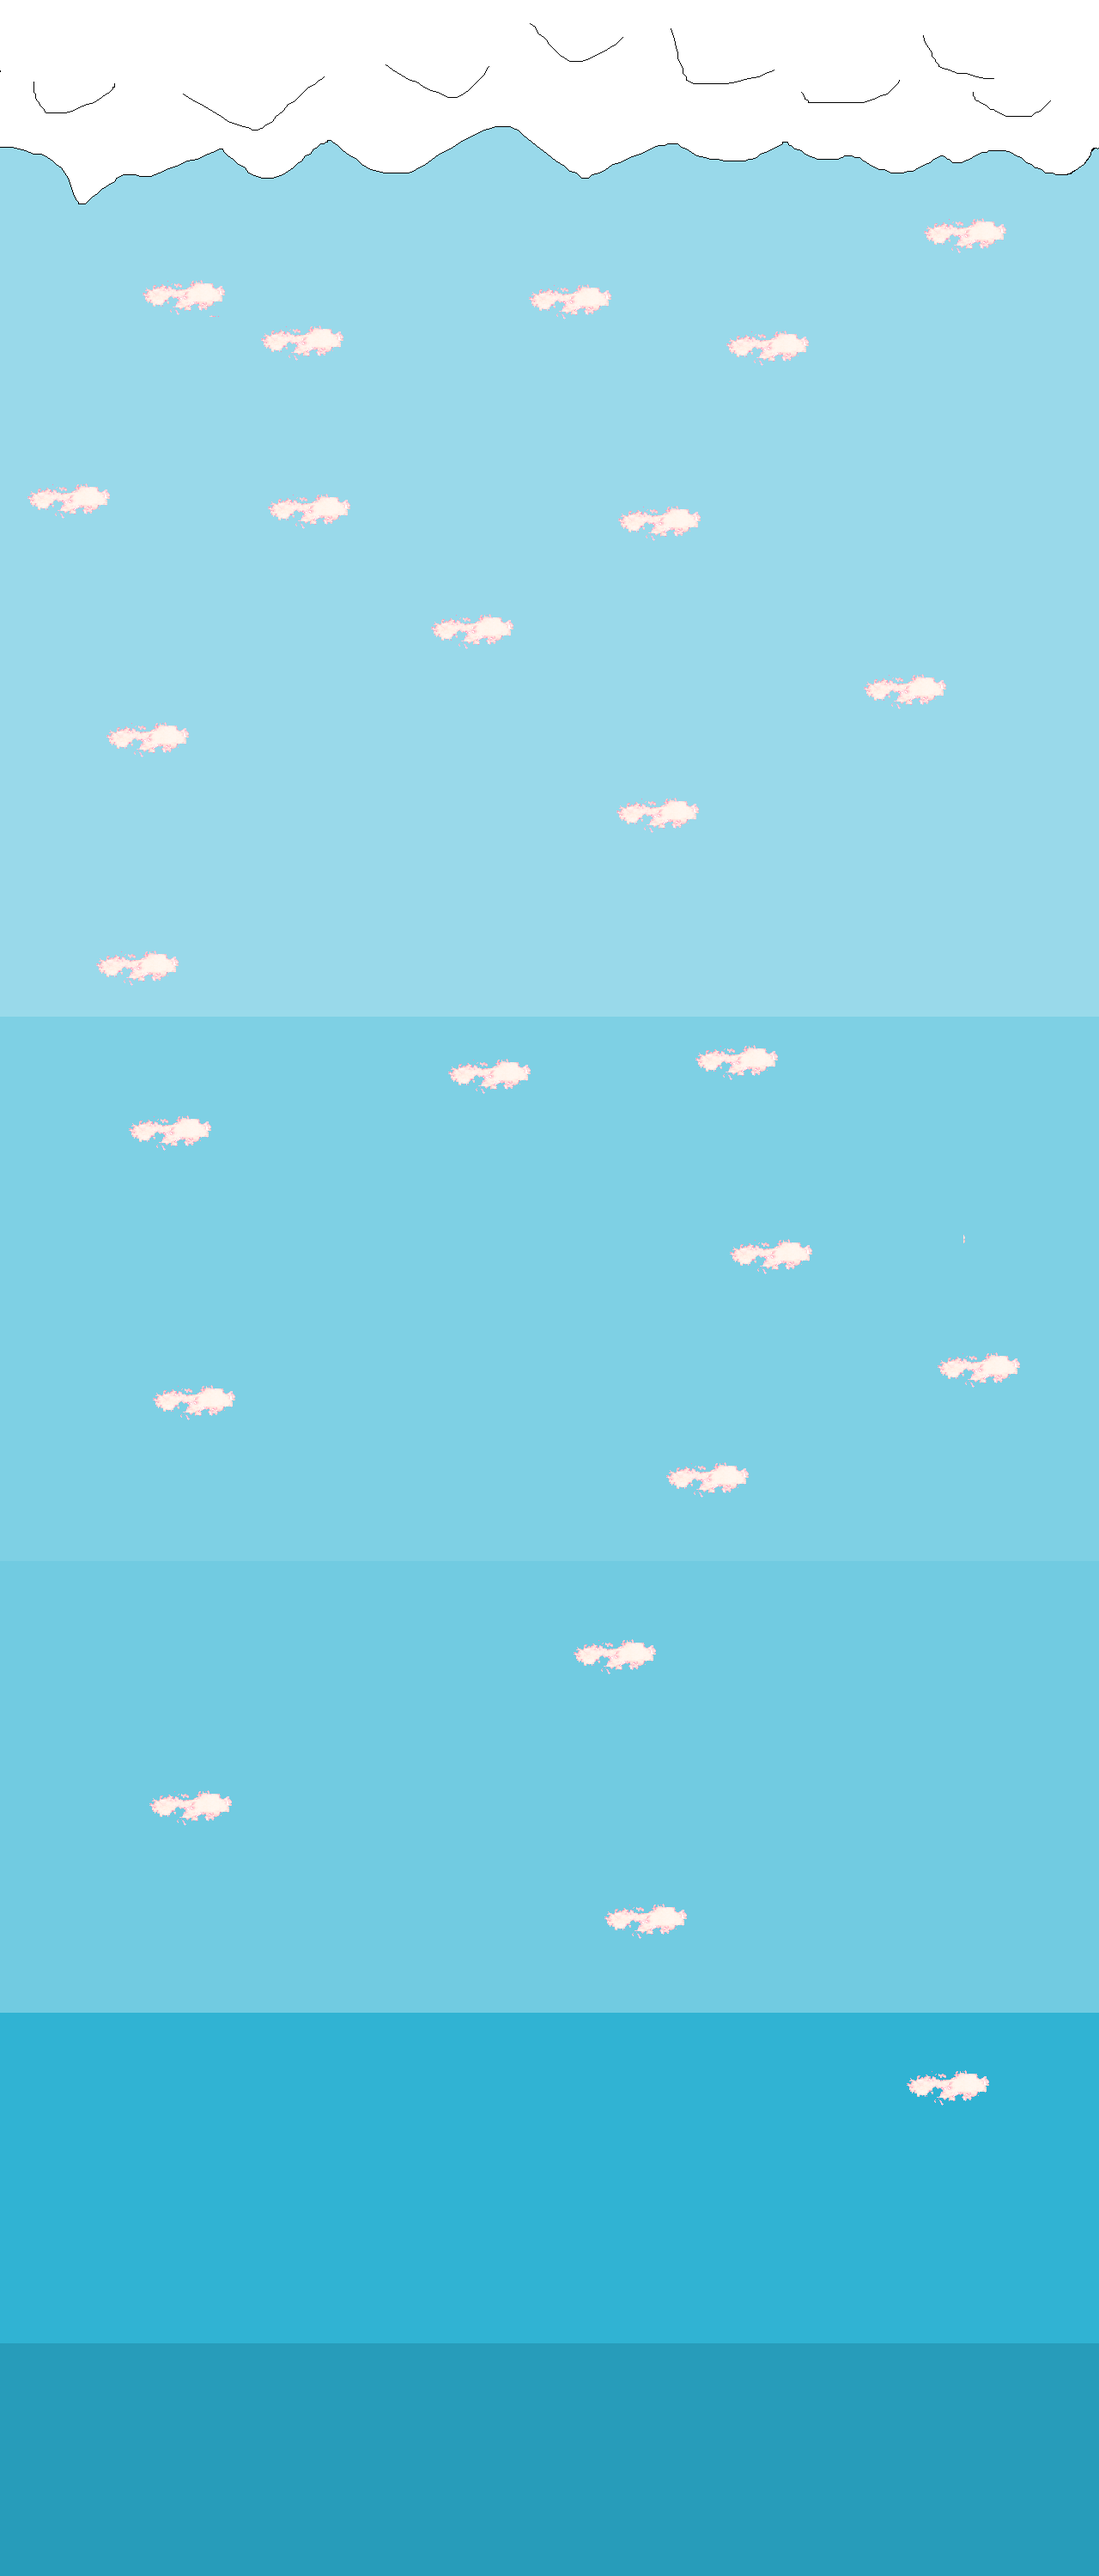
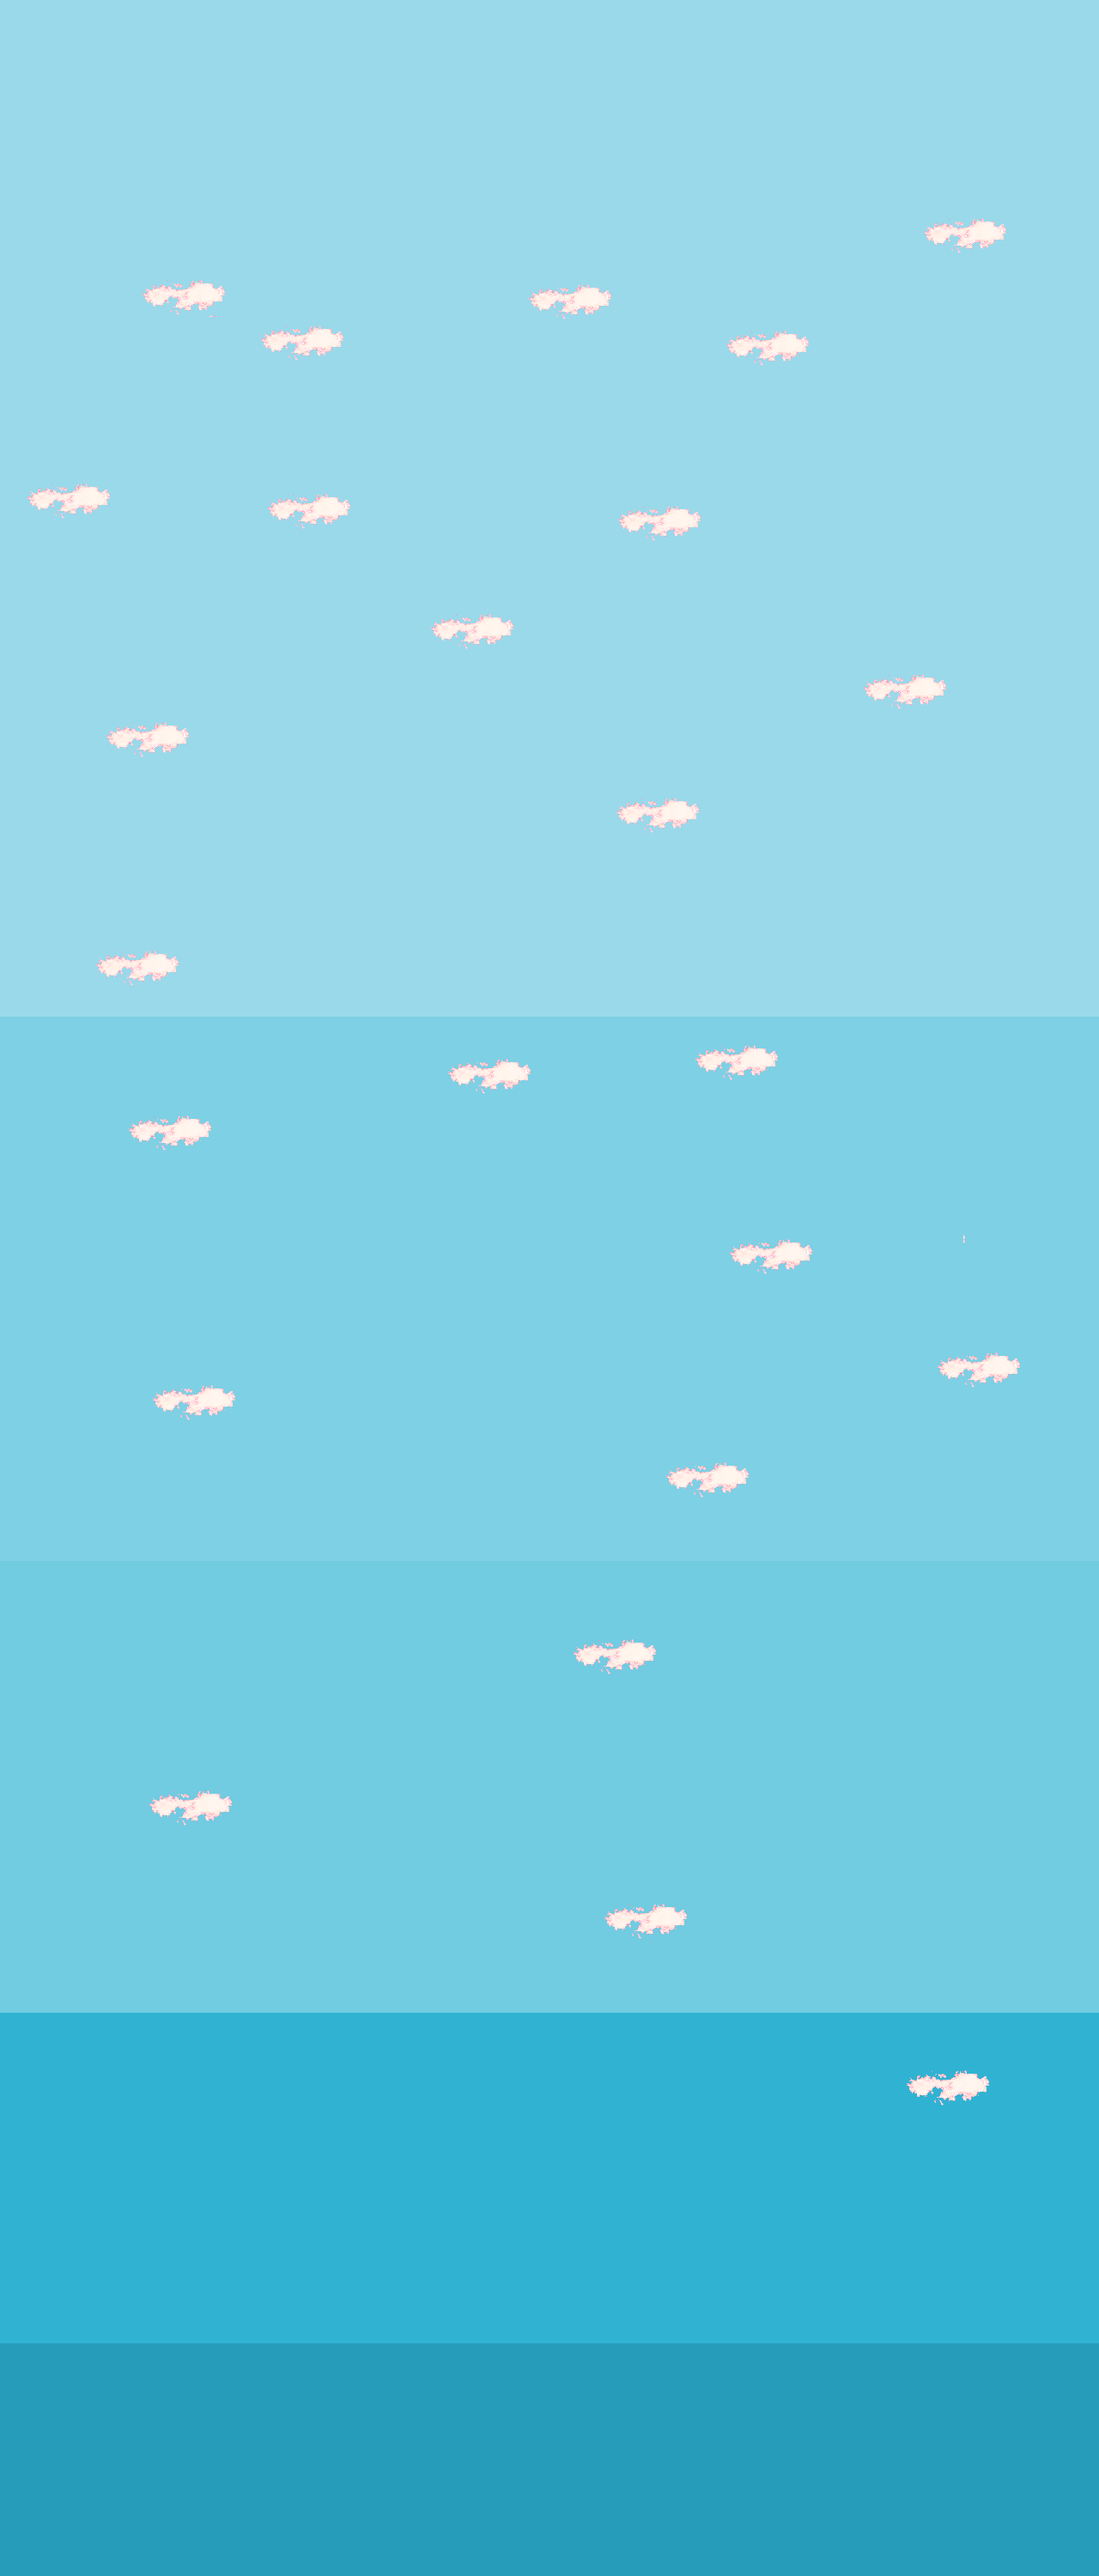
dodanie lustra wody

Changed region(s): [[0.0, 0.0, 1.0, 0.093]]

diff --git a/Game2D/Character.cpp b/Game2D/Character.cpp
@@ -12,14 +12,14 @@
 std::vector<bool> Inputs::slope;
 
 Character::Character(const Vecf2 position, const std::string &file, std::shared_ptr<Renderer> & ren) :
-	Object(0, 2 * BLOCK_SIZE, 2 * BLOCK_SIZE, width, 0, ren, file, position, Vecf2{ 0.f, 0.f }),
+	Object(0, 0, 2 * BLOCK_SIZE, 2 * BLOCK_SIZE, width, 0, ren, file, position, Vecf2{ 0.f, 0.f }),
 	life(true),
 	delta_angle(0.f),
 	delta_velocity(5e1),
 	max_velocity(5e2f),
 	health(10.f),
-	bullet_trigger_base(5),
-	bullet_trigger(5)
+	bullet_trigger_base(10),
+	bullet_trigger(10)
 {
 	for (int i = 0; i < 36; i++) {
 		clips.push_back(SDL_Rect{ i*2*BLOCK_SIZE, 0, 2 * BLOCK_SIZE, 2 * BLOCK_SIZE });
@@ -36,7 +36,7 @@ Character::Character(const Vecf2 position, const std::string &file, std::shared_
 	engine_clips.push_back(SDL_Rect{ 2*BLOCK_SIZE,0,BLOCK_SIZE, BLOCK_SIZE });
 	engine_clips.push_back(SDL_Rect{ 3*BLOCK_SIZE,0,BLOCK_SIZE, BLOCK_SIZE });
 
-	engine = std::make_unique<Static>(engine_clips, position, "Engine.png", ren);
+	engine = std::make_unique<Static>(5, engine_clips, position, "Engine.png", ren);
 }
 
 void Character::Update(const float deltaTime,
@@ -95,7 +95,8 @@ void Character::Update(const float deltaTime,
 
 	if (currentInput[Input::Shot]) {
 		if (bullet_trigger == 0) {
-			bullet_vector.push_back(std::make_shared<Bullet>(angle, velocity, position, "Bullet.png", ren));
+			Vecf2 position_temp{ position.x + 1.1f*BLOCK_SIZE*sinf(angle*PI / 180.f), position.y - 1.1f*BLOCK_SIZE*cosf(angle*PI / 180.f) };
+			bullet_vector.push_back(std::make_shared<Bullet>(angle+Math::Rand(-5.f,5.f), velocity, position_temp, "Bullet.png", ren));
 			audio->PlayExplosion();
 			bullet_trigger = bullet_trigger_base;
 		}
@@ -118,17 +119,19 @@ void Character::Update(const float deltaTime,
 	useClip = static_cast<int>(std::floorf(angle / 10.f));
 	if (useClip < 0 || useClip > 35) useClip = 0;
 	
-	printf("%f\n", angle);
+//	printf("%f\n", angle);
 
 	position.x += velocity.x*deltaTime;
 	position.y += velocity.y*deltaTime;
+
+	engine->root_position = position;
 
 	engine->position = position;
 
 	engine->position.x -= 1.4f*BLOCK_SIZE*sinf(angle*PI / 180.f);
 	engine->position.y += 1.4f*BLOCK_SIZE*cosf(angle*PI / 180.f);
 
-	engine->angle = angle;
+//	child_vector[0]->angle = angle;
 }
 
 void Character::Draw()

diff --git a/Game2D/Define.h b/Game2D/Define.h
@@ -70,15 +70,26 @@ namespace Map {
 							std::make_shared<Static>(SDL_Rect{ 2*SCREEN_WIDTH, -1500,  SCREEN_WIDTH,  3000 }, "BG.png", ren));
 
 						first_plan_vector.push_back(
-							std::make_shared<Static>(SDL_Rect{ -2*SCREEN_WIDTH, 250,  SCREEN_WIDTH,  640 }, "Water.png", ren));
+							std::make_shared<Static>(SDL_Rect{ -2*SCREEN_WIDTH, WATER_LEVEL+300,  SCREEN_WIDTH,  640 }, "Water.png", ren));
 						first_plan_vector.push_back(
-							std::make_shared<Static>(SDL_Rect{ -SCREEN_WIDTH, 250,  SCREEN_WIDTH,  640 }, "Water.png", ren));
+							std::make_shared<Static>(SDL_Rect{ -SCREEN_WIDTH, WATER_LEVEL+300,  SCREEN_WIDTH,  640 }, "Water.png", ren));
 						first_plan_vector.push_back(
-							std::make_shared<Static>(SDL_Rect{ 0, 250,  SCREEN_WIDTH,  640 }, "Water.png", ren));
+							std::make_shared<Static>(SDL_Rect{ 0, WATER_LEVEL+300,  SCREEN_WIDTH,  640 }, "Water.png", ren));
 						first_plan_vector.push_back(
-							std::make_shared<Static>(SDL_Rect{ SCREEN_WIDTH, 250,  SCREEN_WIDTH,  640 }, "Water.png", ren));
+							std::make_shared<Static>(SDL_Rect{ SCREEN_WIDTH, WATER_LEVEL+300,  SCREEN_WIDTH,  640 }, "Water.png", ren));
 						first_plan_vector.push_back(
-							std::make_shared<Static>(SDL_Rect{ 2*SCREEN_WIDTH, 250,  SCREEN_WIDTH,  640 }, "Water.png", ren));
+							std::make_shared<Static>(SDL_Rect{ 2*SCREEN_WIDTH, WATER_LEVEL+300,  SCREEN_WIDTH,  640 }, "Water.png", ren));
+
+						first_plan_vector.push_back(
+							std::make_shared<Static>(SDL_Rect{ -2*SCREEN_WIDTH, SKY_LEVEL,  SCREEN_WIDTH,  250 }, "Sky.png", ren));
+						first_plan_vector.push_back(
+							std::make_shared<Static>(SDL_Rect{ -SCREEN_WIDTH, SKY_LEVEL,  SCREEN_WIDTH,  250 }, "Sky.png", ren));
+						first_plan_vector.push_back(
+							std::make_shared<Static>(SDL_Rect{ 0, SKY_LEVEL,  SCREEN_WIDTH,  250 }, "Sky.png", ren));
+						first_plan_vector.push_back(
+							std::make_shared<Static>(SDL_Rect{ SCREEN_WIDTH, SKY_LEVEL,  SCREEN_WIDTH,  250 }, "Sky.png", ren));
+						first_plan_vector.push_back(
+							std::make_shared<Static>(SDL_Rect{ 2*SCREEN_WIDTH, SKY_LEVEL,  SCREEN_WIDTH,  250 }, "Sky.png", ren));
 					}
 					x += 10*BLOCK_SIZE;
 				}

diff --git a/Game2D/Static.cpp b/Game2D/Static.cpp
@@ -3,40 +3,25 @@
 #include "Texture.h"
 
 Static::Static(const Vecf2 position, const std::string & file, std::shared_ptr<Renderer> ren) :
-	Object(0, BLOCK_SIZE, BLOCK_SIZE, width, 0, ren, file, position, Vecf2{ 0.f, 0.f })
+	Object(0, 0, BLOCK_SIZE, BLOCK_SIZE, width, 0, ren, file, position, Vecf2{ 0.f, 0.f })
 {
 	clips.push_back(SDL_Rect{ 0,0,static_cast<int>(width), static_cast<int>(height) });
 }
 
 Static::Static(SDL_Rect rect, const std::string & file, std::shared_ptr<Renderer> ren) :
-	Object(0, static_cast<float>(rect.h), static_cast<float>(rect.w), width, 0, ren, file, Vecf2{ static_cast<float>(rect.x),static_cast<float>(rect.y) }, Vecf2{ 0.f, 0.f })
+	Object(0, 0, static_cast<float>(rect.h), static_cast<float>(rect.w), width, 0, ren, file, Vecf2{ static_cast<float>(rect.x),static_cast<float>(rect.y) }, Vecf2{ 0.f, 0.f })
 {
 	clips.push_back(SDL_Rect{ 0,0,static_cast<int>(width), static_cast<int>(height) });
 }
 
-Static::Static(const std::vector<SDL_Rect> clips_, const Vecf2 position, const std::string & file, std::shared_ptr<Renderer> ren) :
-	Object(0, BLOCK_SIZE, BLOCK_SIZE, width, 0, ren, file, position, Vecf2{ 0.f, 0.f }),
-	animation_delay(5),
-	current_animation_delay(5)
+Static::Static(const unsigned animation_delay, const std::vector<SDL_Rect> clips_, const Vecf2 position, const std::string & file, std::shared_ptr<Renderer> ren) :
+	Object(animation_delay, 0, BLOCK_SIZE, BLOCK_SIZE, width, 0, ren, file, position, Vecf2{ 0.f, 0.f })
 {
 		clips = clips_;
 }
 
-void Static::Animation(unsigned start, unsigned end)
-{
-	current_animation_delay--;
-	if (current_animation_delay == 0) {
-		current_animation_delay = animation_delay;
-
-		useClip++;
-		if (useClip == end) {
-			useClip = start;
-		}
-		
-	}
-}
-
 void Static::Draw()
 {
-	ren->render(this, scale, angle);
+	SDL_Point center{ static_cast<int>(root_position.x),static_cast<int>(root_position.y) };
+	ren->render(this, scale, angle, &center);
 }

diff --git a/Game2D/Object.cpp b/Game2D/Object.cpp
@@ -8,28 +8,45 @@
 std::map<Key, Action> Inputs::key;
 
 Object::Object(
+		unsigned animation_delay,
 
-	int useClip,
-	float height,
-	float width,
-	float collision_r,
-	float angle,
+		int useClip,
+		float height,
+		float width,
+		float collision_r,
+		float angle,
 
-	std::shared_ptr<Renderer> ren,
-	std::string file,
+		std::shared_ptr<Renderer> ren,
+		std::string file,
 
-	Vecf2 position,
-	Vecf2 velocity,
-	Vecf2 scale
+		Vecf2 position,
+		Vecf2 velocity,
+		Vecf2 scale
 	) :
+	animation_delay(animation_delay),
+	current_animation_delay(1),
 	useClip(useClip),
 	height(height),
 	width(width),
 	collision_r(collision_r),
 	angle(angle),
 	ren(ren),
-	sprite{std::make_shared<Texture>(file, ren)},
+	sprite{ std::make_shared<Texture>(file, ren) },
 	position(position),
 	velocity(velocity),
 	scale(scale)
 {}
+
+void Object::Animation(unsigned start_clip, unsigned end_clip)
+{
+	current_animation_delay--;
+	if (current_animation_delay == 0) {
+		current_animation_delay = animation_delay;
+
+		useClip++;
+		if (useClip == end_clip) {
+			useClip = start_clip;
+		}
+		
+	}
+}

diff --git a/Game2D/Bullet.cpp b/Game2D/Bullet.cpp
@@ -2,8 +2,10 @@
 #include "Define.h"
 #include "Texture.h"
 
+#define START_VELOCITY 400.f
+
 Bullet::Bullet(float angle, const Vecf2 start_velocit, const Vecf2 position, const std::string &file, std::shared_ptr<Renderer> & ren) :
-	Object(0, BLOCK_SIZE, BLOCK_SIZE, width, 0, ren, file, position, Vecf2{ sinf(PI*angle / 180.f)*600.f + start_velocit.x, -cosf(PI*angle / 180.f)*600.f + start_velocit.y }),
+	Object(0, 0, BLOCK_SIZE/2, BLOCK_SIZE/2, width, 0, ren, file, position, Vecf2{ START_VELOCITY*sinf(PI*angle / 180.f)+ start_velocit.x, -START_VELOCITY*cosf(PI*angle / 180.f) + start_velocit.y }),
 	life(true),
 	time_to_die(false),
 	timer(100),
@@ -11,7 +13,7 @@ Bullet::Bullet(float angle, const Vecf2 start_velocit, const Vecf2 position, con
 	death_timer(3)
 {
 	clips.push_back(SDL_Rect{ 0,0,static_cast<int>(width), static_cast<int>(height) });
-	clips.push_back(SDL_Rect{ 32,0,static_cast<int>(width), static_cast<int>(height) });
+	clips.push_back(SDL_Rect{ BLOCK_SIZE/2,0,static_cast<int>(width), static_cast<int>(height) });
 }
 
 void Bullet::Update(const float deltaTime) {

diff --git a/Game2D/Static.h b/Game2D/Static.h
@@ -6,14 +6,13 @@ class Static :
 	public Object
 {
 public:
-	unsigned animation_delay, current_animation_delay;
+	Vecf2 root_position;
 
 public:
 	Static(const Vecf2 position, const std::string & file, std::shared_ptr<Renderer> ren);
 	Static(SDL_Rect rect, const std::string &file, std::shared_ptr<Renderer> ren);
-	Static(const std::vector<SDL_Rect> clips_, const Vecf2 position, const std::string & file, std::shared_ptr<Renderer> ren);
+	Static(const unsigned animation_delay, const std::vector<SDL_Rect> clips_, const Vecf2 position, const std::string & file, std::shared_ptr<Renderer> ren);
 
-	void Animation(unsigned start, unsigned end);
 	void Draw() override;
 };
 

diff --git a/Game2D/Renderer.cpp b/Game2D/Renderer.cpp
@@ -73,6 +73,13 @@ void Renderer::render(Object * obj, Vecf2 scale, float angle, SDL_Point *center)
 
 		SDL_RenderSetScale(ren, scale.x, scale.y);
 		SDL_SetTextureBlendMode(obj->sprite->texture, SDL_BLENDMODE_BLEND);
+
+		//Normal
 		SDL_RenderCopyEx(ren, obj->sprite->texture, &obj->clips[obj->useClip], &dst, angle, center, SDL_FLIP_NONE);
+
+		//Mirror
+		dst.y = -static_cast<int>(((obj->position.y - obj->height / 2.f) + camera->position.y)/scale.y);
+		if (dst.y > WATER_LEVEL - 300)
+			SDL_RenderCopyEx(ren, obj->sprite->texture, &obj->clips[obj->useClip], &dst, angle, center, SDL_FLIP_VERTICAL);
 	}
 }

diff --git a/Game2D/Object.h b/Game2D/Object.h
@@ -16,6 +16,8 @@ class Object
 {
 
 public:
+	unsigned animation_delay, current_animation_delay;
+
 	int useClip;
 
 	float height;
@@ -33,6 +35,8 @@ public:
 	
 public:
 	Object(
+		unsigned animation_delay,
+
 		int useClip,
 		float height,
 		float width,
@@ -46,6 +50,8 @@ public:
 		Vecf2 velocity,
 		Vecf2 scale = Vecf2{1.f,1.f}
 	);
-	virtual void Draw() = 0;
 
+	void Animation(unsigned start_clip, unsigned end_clip);
+
+	virtual void Draw() = 0;
 };

diff --git a/Game2D/Enemy.h b/Game2D/Enemy.h
@@ -25,11 +25,10 @@ public:
 	Enemy(const Vecf2 position, const std::string &file, std::shared_ptr<Renderer> & ren);
 
 	void Update(const float deltaTime);
-	void Draw() override;
 
 	void Detect(std::shared_ptr<Character> cha, std::vector<std::shared_ptr<Bullet>> &bullet_vector);
-
 	void Enemy::Collision(std::shared_ptr<Bullet> &bull);
 
+	void Draw() override;
 };
 

diff --git a/Game2D/Enemy.cpp b/Game2D/Enemy.cpp
@@ -9,7 +9,7 @@
 #include "Gameplay.h"
 
 Enemy::Enemy(const Vecf2 position, const std::string & file, std::shared_ptr<Renderer> & ren) :
-	Object(0, BLOCK_SIZE, BLOCK_SIZE, width, 0, ren, file, position, Vecf2{ 0.f, 0.f }),
+	Object(0, 0, BLOCK_SIZE, BLOCK_SIZE, width, 0, ren, file, position, Vecf2{ 0.f, 0.f }),
 	life(true),
 	time_to_die(false),
 	max_size(false),

diff --git a/Game2D/Bullet.h b/Game2D/Bullet.h
@@ -13,7 +13,7 @@ public:
 	Bullet(float angle, const Vecf2 start_velocit, const Vecf2 position, const std::string &file, std::shared_ptr<Renderer> & ren);
 
 	void Update(const float deltaTime);
-	void Draw() override;
 
+	void Draw() override;
 };
 

diff --git a/Game2D/Main.cpp b/Game2D/Main.cpp
@@ -192,7 +192,7 @@ int main(int, char**) {
 
 			//Draw first plan
 			for (auto& first_plan : first_plan_vector) {
-				first_plan->Draw();
+//				first_plan->Draw();
 			}
 
 			//Update the screen
